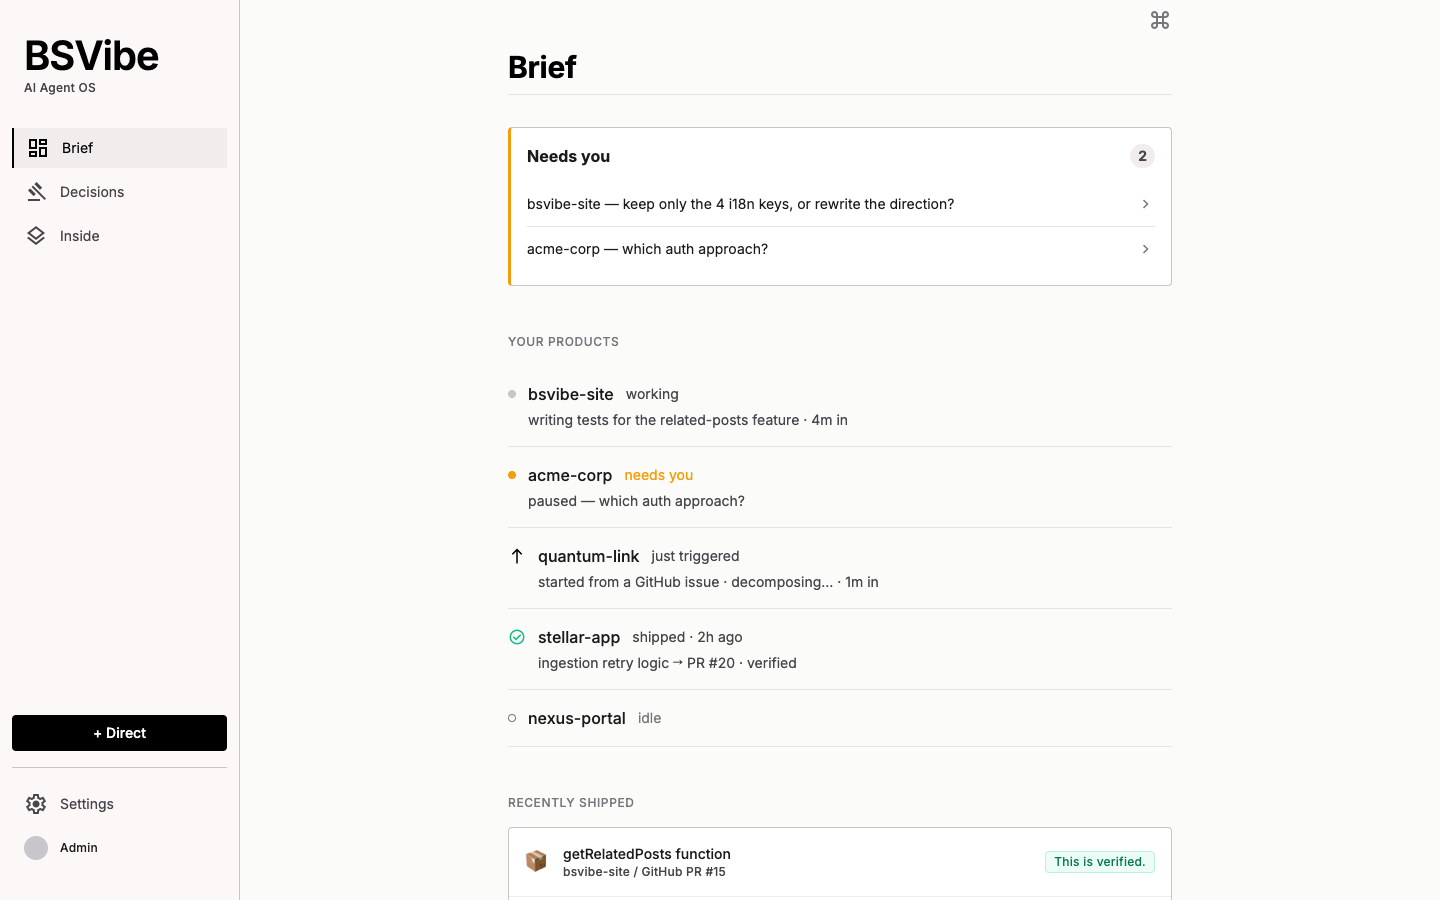
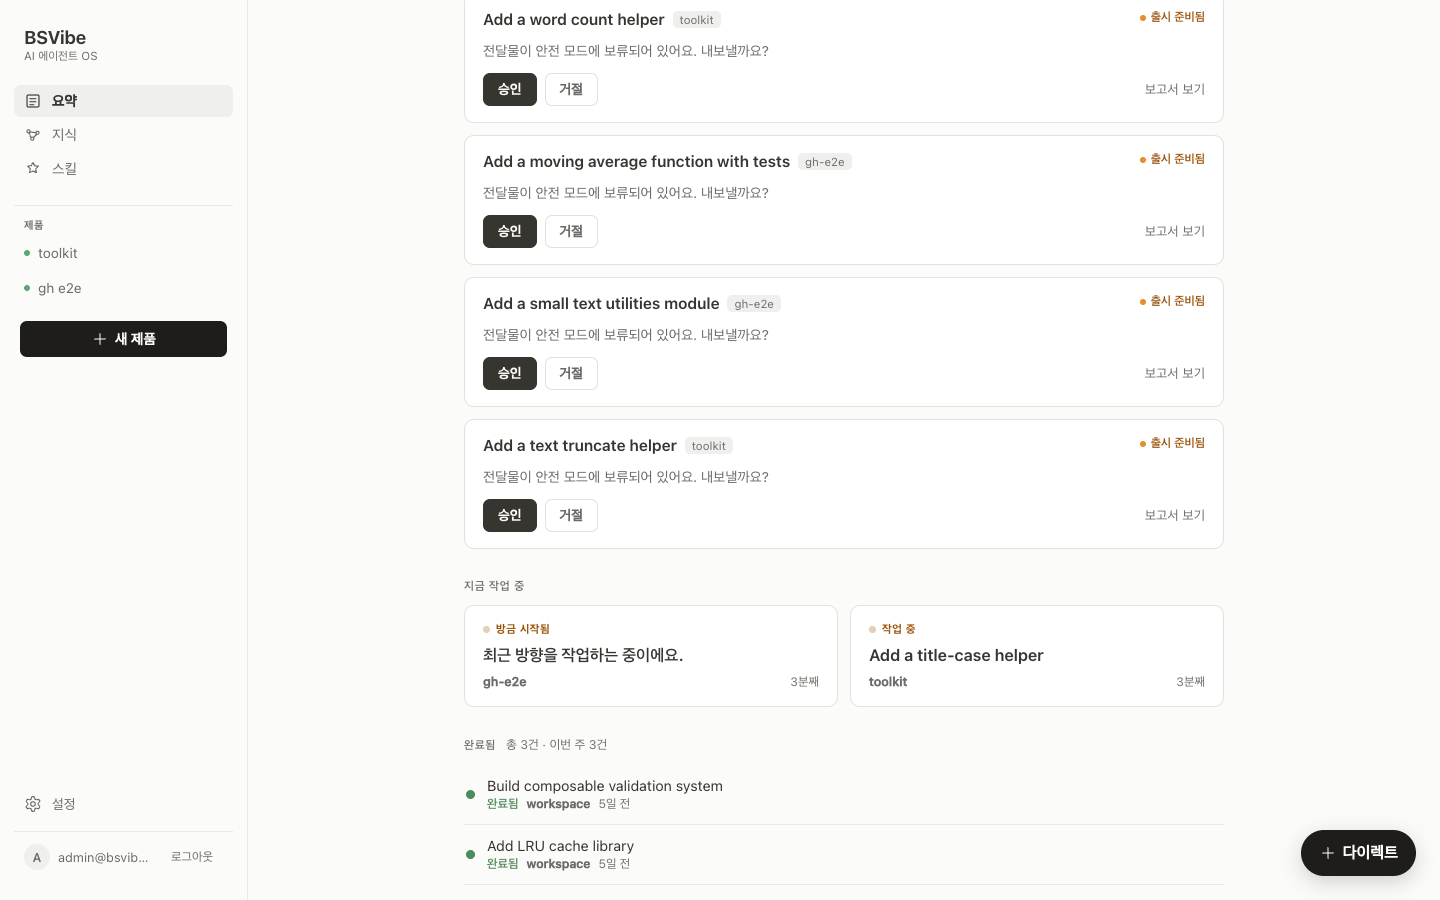
chore(site): 현행 app에 맞춰 랜딩 최신화 (정직한 등급 검증 + Knowledge/Skills + 라이브 스크린샷) (#27)
* chore(assets): drop dead 4-product-era screenshots

- remove 12 unreferenced bsgateway-*/bsupervisor-*/bsage-*.png under
  public/images/screenshots/ (retired 4-product era, zero code refs)
- current marketing surface uses only public/images/screens/

* feat(copy): refresh marketing to current app (honest graded proof + Knowledge/Skills)

- lead the wedge with *honestly* verified work: per-result Evidence grade
  A-D, independent acceptance check, never a faked pass (whyDifferent[0],
  howItWorks verify step + glassBox)
- surface the knowledge graph as where corrections accumulate and stay
  browsable (learningLoop caption, howItWorks remember step)
- add Reusable skills as a platform affordance (platform.points)
- align decide screenshot caption to the shipped surface name (Decisions)
- lock the new positioning with 4 tests (grade/honesty, knowledge graph,
  skills, Decisions naming)

* feat(screens): recapture live app screenshots + surface knowledge graph

- brief.png: real 요약 ledger (waiting / running / done at a glance)
- delivery-report.png: post-redesign report with Evidence grade (근거 B),
  independent checks + demonstration probe (the honest-proof hero)
- decide.png: real 확인 필요 inbox (Decisions + Safe Mode hold/approve)
- knowledge.png: force-directed knowledge graph — new first-class surface,
  replaces the retired auto-trigger/Safe-Mode shot
- how-it-works: swap the Safe Mode feature block for a Knowledge block;
[…]

diff --git a/src/content/marketing.ts b/src/content/marketing.ts
@@ -2,9 +2,13 @@
 //
 // BSVibe is ONE product (the 4-product era — BSGateway/BSNexus/BSupervisor/
 // BSage — is retired; those are now invisible internal layers). The external
-// pitch leads with the wedge: verified work + agents that stop repeating
-// mistakes, for the solo founder running many products. The site is CTAs-only
-// (no login on the site itself) — auth links point to app.bsvibe.dev.
+// pitch leads with the wedge: *honestly* verified work (per-result proof with
+// an Evidence grade A–D, never a faked pass) + agents that stop repeating
+// mistakes (corrections accumulate in a browsable knowledge graph), for the
+// solo founder running many products. Knowledge (the graph) and Skills
+// (reusable capabilities) are first-class app surfaces, so the copy names
+// them. The site is CTAs-only (no login on the site itself) — auth links
+// point to app.bsvibe.dev.
 //
 // Copy voice: drop explicit subjects (we / you / 당신 / the brand name as a
 // sentence subject). Korean elides subjects naturally; English uses subjectless
@@ -65,10 +69,10 @@ export interface ValueProp {
 export const whyDifferentHeading: L = { ko: '왜 다른가', en: 'Why BSVibe' };
 export const whyDifferent: ValueProp[] = [
   {
-    title: { ko: '검증된 결과', en: 'Verified work' },
+    title: { ko: '정직하게 검증된 결과', en: 'Honestly verified work' },
     body: {
-      ko: '결과마다 사람이 읽을 수 있는 증명이 붙습니다. PR을 그냥 믿지 않습니다.',
-      en: 'Every result comes with proof a human can read. No PR is taken on faith.',
+      ko: '결과마다 무엇을 어떻게 확인했는지 증거가 붙습니다. 통과를 꾸며내지 않고, 확신의 정도를 등급으로 밝힙니다.',
+      en: 'Every result carries proof of what was checked and how. A pass is never faked, and how sure comes as a grade.',
     },
   },
   {
@@ -98,32 +102,36 @@ export const screenshots = {
     src: '/images/screens/delivery-report.png',
     alt: { ko: 'BSVibe Delivery Report 화면', en: 'BSVibe Delivery Report screen' },
     caption: {
-      ko: '실제 BSVibe 화면 — Delivery Report (검증된 결과)',
-      en: 'Actual BSVibe — Delivery Report (verified work)',
+      ko: '실제 BSVibe 화면 — Delivery Report (근거 등급까지 보이는 검증)',
+      en: 'Actual BSVibe — Delivery Report (verification, down to the grade)',
     },
   },
   brief: {
     src: '/images/screens/brief.png',
     alt: { ko: 'BSVibe Brief 현황 화면', en: 'BSVibe Brief overview screen' },
     caption: {
-      ko: '실제 BSVibe 화면 — Brief (현황 한눈에)',
-      en: 'Actual BSVibe — Brief (everything at a glance)',
+      ko: '실제 BSVibe 화면 — Brief (대기·진행·완료 한눈에)',
+      en: 'Actual BSVibe — Brief (waiting, running, done at a glance)',
     },
   },
-  decide: {
-    src: '/images/screens/decide.png',
-    alt: { ko: 'BSVibe 결정 화면', en: 'BSVibe Decide screen' },
-    caption: { ko: '실제 BSVibe 화면 — 결정(Decide)', en: 'Actual BSVibe — Decide' },
-  },
-  triggered: {
-    src: '/images/screens/triggered.png',
-    alt: {
-      ko: 'BSVibe 자동 트리거 & Safe Mode 화면',
-      en: 'BSVibe trigger & Safe Mode screen',
-    },
+  // The three live side-tabs are Brief / Knowledge / Skills (Decisions is a
+  // tab *inside* Brief — its 확인 필요 filter — not a nav surface, so it has no
+  // dedicated shot; Safe Mode is the 승인 mode under Settings, surfaced as a
+  // guardrails tile). The 4th shot is the Delivery Report proof detail.
+  knowledge: {
+    src: '/images/screens/knowledge.png',
+    alt: { ko: 'BSVibe 지식 그래프 화면', en: 'BSVibe knowledge graph screen' },
     caption: {
-      ko: '실제 BSVibe 화면 — 자동 트리거 & Safe Mode',
-      en: 'Actual BSVibe — Auto-trigger & Safe Mode',
+      ko: '실제 BSVibe 화면 — 지식 그래프 (쌓이는 지식)',
+      en: 'Actual BSVibe — Knowledge graph (what accumulates)',
+    },
+  },
+  skills: {
+    src: '/images/screens/skills.png',
+    alt: { ko: 'BSVibe 스킬 화면', en: 'BSVibe Skills screen' },
+    caption: {
+      ko: '실제 BSVibe 화면 — 스킬 (재사용 스킬)',
+      en: 'Actual BSVibe — Skills (reusable capabilities)',
     },
   },
 } satisfies Record<string, Screenshot>;
@@ -165,6 +173,13 @@ export const platform = {
         en: 'The right model per task, cost included, chosen automatically.',
       },
     },
+    {
+      title: { ko: '재사용 스킬', en: 'Reusable skills' },
+      body: {
+        ko: '자주 하는 일은 스킬로 저장해, 어느 제품에서든 다시 부릅니다.',
+        en: 'Recurring work saved as a skill, callable again on any product.',
+      },
+    },
   ] as ValueProp[],
   connectors: ['GitHub', 'Slack', 'Figma', 'Notion', 'Email'],
 };
@@ -177,8 +192,8 @@ export const learningLoop = {
     { ko: '다음엔 알아서', en: 'Next time, on its own' },
   ] as L[],
   caption: {
-    ko: '감독할 일이 시간이 지날수록 줄어듭니다. 이것이 단 하나의 약속입니다.',
-    en: 'Supervision shrinks over time. That is the one promise.',
+    ko: '한 번 바로잡은 것은 지식 그래프에 쌓여, 다음 작업이 알아서 참고합니다. 감독할 일은 시간이 지날수록 줄어듭니다.',
+    en: 'Each correction accumulates in a knowledge graph the next task draws on by itself. Supervision shrinks over time.',
   },
 };
 
@@ -255,37 +270,37 @@ export const howItWorks = {
     {
       title: { ko: '검증하고 증거를 냅니다', en: 'It verifies and shows proof' },
       body: {
-        ko: '끝났다고 그냥 믿지 않습니다. 무엇을 어떻게 확인했는지 증거와 판정을 함께 보여줍니다.',
-        en: '"Done" is never taken on faith. What was checked, how, and the verdict come with every result.',
+        ko: '끝났다고 그냥 믿지 않습니다. 별도 검증이 독립적으로 확인하고, 무엇을 확인했는지·얼마나 확신하는지 등급과 함께 보여줍니다. 통과를 꾸며내지 않습니다.',
+        en: '"Done" is never taken on faith. A separate check verifies independently and shows what was checked and how sure, as a grade. A pass is never faked.',
       },
     },
     {
       title: { ko: '기억합니다', en: 'It remembers' },
       body: {
-        ko: '한 번 바로잡은 것은 쌓입니다. 다음부터 같은 실수는 알아서 피합니다.',
-        en: 'Corrections accumulate. The same mistake is avoided from then on.',
+        ko: '한 번 바로잡은 것은 지식 그래프에 쌓입니다. 다음부터 같은 실수는 알아서 피하고, 쌓인 지식은 언제든 열어볼 수 있습니다.',
+        en: 'Each correction accumulates in a knowledge graph. The same mistake is avoided from then on, and the knowledge is there to browse anytime.',
       },
     },
   ] as FlowStep[],
   glassBox: {
     heading: { ko: '유리상자처럼 투명한 결과', en: 'Results, transparent as glass' },
     body: {
-      ko: '모든 결과는 의도·작업·검증·판정·산출물이 한 장에 담긴 Delivery Report로 옵니다.',
-      en: 'Every result arrives as one Delivery Report: intent, work, checks, verdict, artifact.',
+      ko: '모든 결과는 의도·작업·검증·판정·산출물이 한 장에 담긴 Delivery Report로 옵니다. 무엇을 확인했고 얼마나 확신하는지, 등급까지 정직하게 보여줍니다.',
+      en: 'Every result arrives as one Delivery Report: intent, work, checks, verdict, artifact. What was checked and how sure, shown honestly down to the grade.',
     },
   },
-  decide: {
-    heading: { ko: '결정이 필요할 때만 부릅니다', en: 'Calls only when a decision is needed' },
+  skills: {
+    heading: { ko: '재사용 스킬', en: 'Reusable skills' },
     body: {
-      ko: '취향·범위·방향처럼 혼자 정하면 안 되는 갈림길만 올라옵니다. 답하는 순간 그 자리에서 이어서 진행하고, 그 선택은 다음을 위한 기준으로 기억됩니다.',
-      en: 'Only genuine forks (taste, scope, direction) come up. The moment one is answered, the work resumes, and that choice becomes the standard next time.',
+      ko: '자주 하는 일은 스킬로 저장해 두면, 어느 제품에서든 같은 방식으로 다시 부릅니다. 주간 다이제스트·PR 리뷰·릴리스 노트처럼, 손에 익은 방식이 그대로 쌓입니다.',
+      en: 'Save recurring work as a skill and call it the same way on any product. A weekly digest, a PR review, release notes: the way that works keeps building up.',
     },
   },
-  safeMode: {
-    heading: { ko: '밖으로 나가는 건, 승인 후에', en: 'Nothing leaves until approved' },
+  knowledge: {
+    heading: { ko: '쌓이는 지식 그래프', en: 'A knowledge graph that grows' },
     body: {
-      ko: '푸시·머지·발송처럼 되돌리기 어려운 작업은 승인 전엔 밖으로 나가지 않습니다.',
-      en: 'Hard-to-undo actions (push, merge, send) never go out before approval.',
+      ko: '결정·선호·반려·회고가 지식 그래프에 노트로 쌓이고 서로 연결됩니다. 다음 작업은 여기서 알아서 참고하고, 무엇을 아는지 언제든 열어볼 수 있습니다.',
+      en: 'Decisions, preferences, rejections, and retrospectives accumulate as linked notes in a knowledge graph. The next task draws on it by itself, and what it knows is there to browse anytime.',
     },
   },
   underHood: {
@@ -304,8 +319,11 @@ export const howItWorks = {
         body: { ko: '작업에 맞는 모델을 알아서 고릅니다', en: 'Picks the right model for the job' },
       },
       {
-        title: { ko: '안전 가드레일', en: 'Safety guardrails' },
-        body: { ko: '위험을 막고 규칙을 지킵니다', en: 'Blocks risk and holds the rules' },
+        title: { ko: '안전 모드', en: 'Safe Mode' },
+        body: {
+          ko: '설정에서 켜 두면 되돌리기 어려운 일은 승인 전엔 안 나갑니다',
+          en: 'A settings toggle: hard-to-undo actions wait for approval',
+        },
       },
       {
         title: { ko: '기억·개인화', en: 'Memory & personalization' },

diff --git a/tests/marketing.test.ts b/tests/marketing.test.ts
@@ -140,3 +140,56 @@ describe('how-it-works page', () => {
     }
   });
 });
+
+// The 2026-07 app refresh sharpened the wedge (SoT §1): per-result proof is now
+// an *honest, graded* verdict (Evidence grade A–D, independent acceptance gate,
+// no faked pass), and Knowledge (the graph corrections accumulate into) + Skills
+// (reusable capabilities) are first-class app surfaces. The marketing surface
+// must carry these or it under-sells the current product.
+describe('current-app positioning (2026-07 refresh)', () => {
+  it('the honesty-graded proof claim leads the wedge, not a bare "verified"', () => {
+    // Evidence grade A–D honesty ladder is the moat — copy must name the grade
+    // and the no-faked-pass promise somewhere, not just say "검증됨".
+    expect(allCopy).toContain('등급');
+    expect(allCopy).toMatch(/꾸며내지|위조|정직/);
+    expect(allCopy.toLowerCase()).toMatch(/grade|honest/);
+  });
+
+  it('surfaces the Knowledge graph as where corrections accumulate', () => {
+    expect(allCopy).toContain('지식 그래프');
+    expect(allCopy.toLowerCase()).toContain('knowledge graph');
+  });
+
+  it('surfaces Skills as a reusable-capability platform affordance', () => {
+    expect(allCopy).toContain('스킬');
+    expect(allCopy.toLowerCase()).toContain('skill');
+    expect(M.platform.points.some((p) => p.title.ko.includes('스킬'))).toBe(true);
+  });
+
+  // The 4 shots mirror the live app: the three side-tabs (Brief / Knowledge /
+  // Skills) + the Delivery Report proof detail. Decisions is a filter tab inside
+  // Brief (no dedicated shot), and Safe Mode is the 승인 mode under Settings —
+  // both retired as standalone slots.
+  it('screenshot slots mirror the live side-tabs + proof detail', () => {
+    expect(Object.keys(M.screenshots).sort()).toEqual(['brief', 'deliveryReport', 'knowledge', 'skills']);
+    expect(M.screenshots.skills.src).toBe('/images/screens/skills.png');
+    expect(M.screenshots.knowledge.src).toBe('/images/screens/knowledge.png');
+  });
+
+  it('retires the legacy Decisions + auto-trigger/Safe-Mode standalone shots', () => {
+    expect(M.screenshots).not.toHaveProperty('decide');
+    expect(M.screenshots).not.toHaveProperty('triggered');
+    const shots = JSON.stringify(M.screenshots);
+    expect(shots).not.toContain('decide.png');
+    expect(shots).not.toContain('triggered.png');
+  });
+
+  it('places Safe Mode as a Settings-configured guardrail, not a standalone surface', () => {
+    const safe = M.howItWorks.underHood.tiles.find((t) => t.title.ko.includes('안전'));
+    expect(safe).toBeTruthy();
+    expect(safe!.body.ko).toContain('설정');
+    // no dedicated how-it-works Safe-Mode / Decisions feature section anymore
+    expect(M.howItWorks).not.toHaveProperty('safeMode');
+    expect(M.howItWorks).not.toHaveProperty('decide');
+  });
+});

diff --git a/src/components/marketing/HowItWorks.tsx b/src/components/marketing/HowItWorks.tsx
@@ -80,21 +80,21 @@ export default function HowItWorks({ locale = 'ko' }: { locale?: Locale }) {
         h={900}
       />
 
-      {/* DECIDE */}
+      {/* SKILLS — reusable capabilities (a live side-tab) */}
       <FeatureBlock
-        heading={H.decide.heading[locale]}
-        body={H.decide.body[locale]}
-        shot={screenshots.decide}
+        heading={H.skills.heading[locale]}
+        body={H.skills.body[locale]}
+        shot={screenshots.skills}
         locale={locale}
         w={1440}
         h={900}
       />
 
-      {/* SAFE MODE — Triggered */}
+      {/* KNOWLEDGE — the graph corrections accumulate into */}
       <FeatureBlock
-        heading={H.safeMode.heading[locale]}
-        body={H.safeMode.body[locale]}
-        shot={screenshots.triggered}
+        heading={H.knowledge.heading[locale]}
+        body={H.knowledge.body[locale]}
+        shot={screenshots.knowledge}
         locale={locale}
         w={1440}
         h={900}